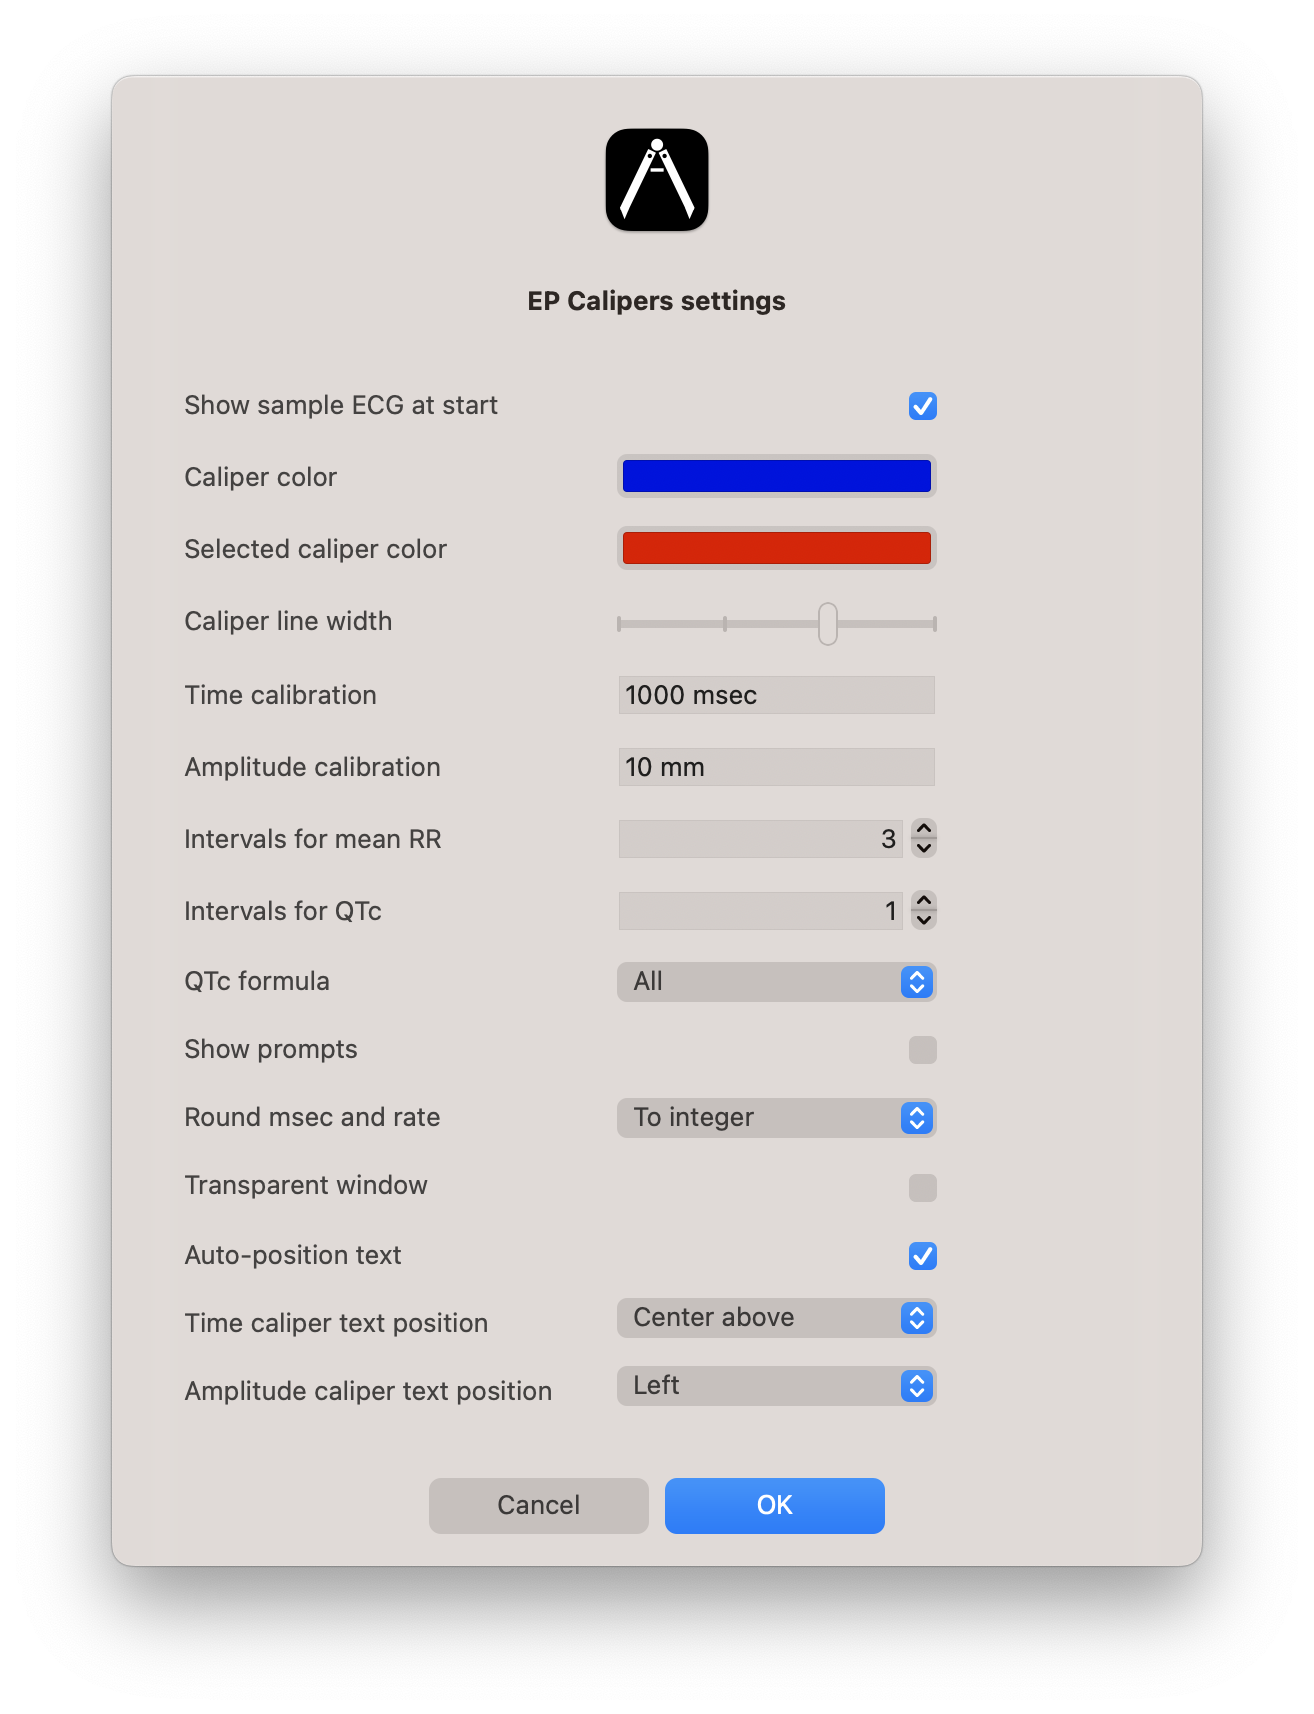
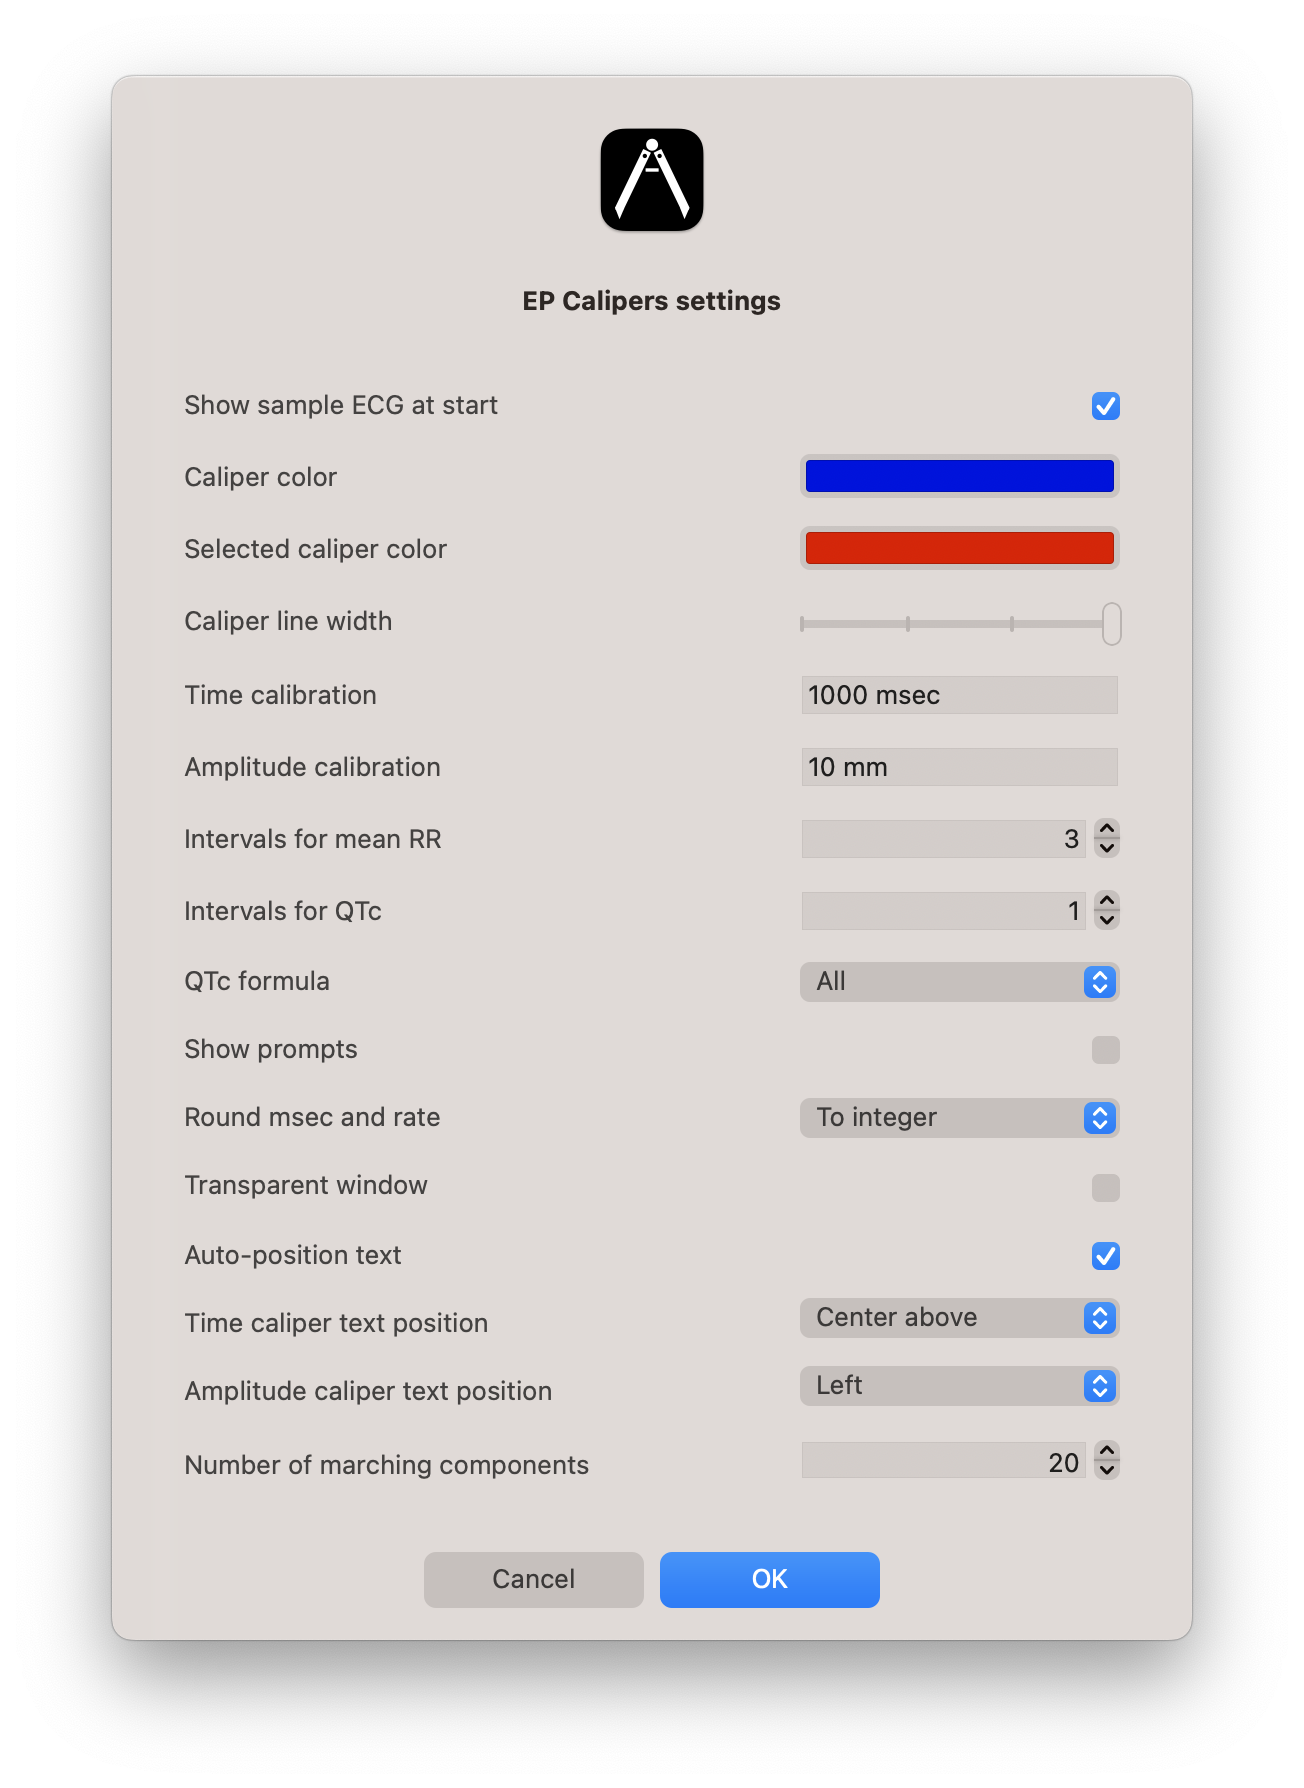
Update help for new marching components setting

diff --git a/EPCalipersHelp/Contents/Resources/fr.lproj/pgs/preferences.html b/EPCalipersHelp/Contents/Resources/fr.lproj/pgs/preferences.html
@@ -6,11 +6,11 @@
 <meta http-equiv="Content-Type" content="text/html;charset=utf-8" />
 <meta name="viewport" content="width=device-width, initial-scale=1" />
 <title>&lrm;</title>
-<meta name="generator" content="Org mode" />
 <meta name="author" content="David Mann" />
 <meta name="keywords" content="préférences" />
-<style type="text/css">
- <!--/*--><![CDATA[/*><!--*/
+<meta name="generator" content="Org Mode" />
+<style>
+  #content { max-width: 60em; margin: auto; }
   .title  { text-align: center;
              margin-bottom: .2em; }
   .subtitle { text-align: center;
@@ -31,8 +31,9 @@
   #postamble p, #preamble p { font-size: 90%; margin: .2em; }
   p.verse { margin-left: 3%; }
   pre {
-    border: 1px solid #ccc;
-    box-shadow: 3px 3px 3px #eee;
+    border: 1px solid #e6e6e6;
+    border-radius: 3px;
+    background-color: #f2f2f2;
     padding: 8pt;
     font-family: monospace;
     overflow: auto;
@@ -41,21 +42,21 @@
   pre.src {
     position: relative;
     overflow: auto;
-    padding-top: 1.2em;
   }
   pre.src:before {
     display: none;
     position: absolute;
-    background-color: white;
-    top: -10px;
-    right: 10px;
+    top: -8px;
+    right: 12px;
     padding: 3px;
-    border: 1px solid black;
+    color: #555;
+    background-color: #f2f2f299;
   }
   pre.src:hover:before { display: inline; margin-top: 14px;}
   /* Languages per Org manual */
   pre.src-asymptote:before { content: 'Asymptote'; }
   pre.src-awk:before { content: 'Awk'; }
+  pre.src-authinfo::before { content: 'Authinfo'; }
   pre.src-C:before { content: 'C'; }
   /* pre.src-C++ doesn't work in CSS */
   pre.src-clojure:before { content: 'Clojure'; }
@@ -190,56 +191,33 @@
     { font-size: 10px; font-weight: bold; white-space: nowrap; }
   .org-info-js_search-highlight
     { background-color: #ffff00; color: #000000; font-weight: bold; }
-  .org-svg { width: 90%; }
-  /*]]>*/-->
+  .org-svg { }
 </style>
 <style media="screen" type="text/css"> img {max-width: 100%; height: auto;} </style>
 <link rel="stylesheet" type="text/css" href="../../shrd/org.css"/>
 <style  type="text/css">:root { color-scheme: light dark; }</style>
 <meta name="robots" content="anchors" />
 <meta name="robots" content="keywords" />
-<script type="text/javascript">
-// @license magnet:?xt=urn:btih:e95b018ef3580986a04669f1b5879592219e2a7a&dn=public-domain.txt Public Domain
-<!--/*--><![CDATA[/*><!--*/
-     function CodeHighlightOn(elem, id)
-     {
-       var target = document.getElementById(id);
-       if(null != target) {
-         elem.classList.add("code-highlighted");
-         target.classList.add("code-highlighted");
-       }
-     }
-     function CodeHighlightOff(elem, id)
-     {
-       var target = document.getElementById(id);
-       if(null != target) {
-         elem.classList.remove("code-highlighted");
-         target.classList.remove("code-highlighted");
-       }
-     }
-    /*]]>*///-->
-// @license-end
-</script>
 </head>
 <body>
-<div id="content">
-<div id="outline-container-orgeaabc18" class="outline-2">
-<h2 id="orgeaabc18"><img src="../../shrd/64.png" alt="64.png" /> Préférences</h2>
-<div class="outline-text-2" id="text-orgeaabc18">
+<div id="content" class="content">
+<div id="outline-container-orgc9ecb62" class="outline-2">
+<h2 id="orgc9ecb62"><img src="../../shrd/64.png" alt="64.png" /> Préférences</h2>
+<div class="outline-text-2" id="text-orgc9ecb62">
 <a name="EP Diagram preferences"></a>
 <p>
 Les préférences d’application peuvent être choisies en utilisant la commande de menu <b>Compas EP | Préférences</b>.  Vous pouvez changer les couleurs de compas, la larguer de ligne de compas, la position du texte de compas, l’intervalle d”étalonnage par défaut et le nombre d’intervalles pour calculer les intervalles moyens.  Par exemple, si vous utilisez toujours un intervalle RR pour calculer le QTc, mettre le <i>Nombre d’intervalles RR pour QTc</i> à un intervalle.  Noter que vous pouvez changer ces nombres quand vous prenez les mesures.  Vous pouvez aussi utilisez le dialog de préférences pour activer la fênetre transparente.
 </p>
 
-<div id="org9ad68cd" class="figure">
+<div id="org9e9c089" class="figure">
 <p><img src="../gfx/preferences.png" alt="preferences.png" />
 </p>
 <p><span class="figure-number">Figure 1: </span>Préférences</p>
 </div>
 </div>
-<div id="outline-container-org3b43dfe" class="outline-3">
-<h3 id="org3b43dfe">Préférences expliquées</h3>
-<div class="outline-text-3" id="text-org3b43dfe">
+<div id="outline-container-org1b3547d" class="outline-3">
+<h3 id="org1b3547d">Préférences expliquées</h3>
+<div class="outline-text-3" id="text-org1b3547d">
 <ul class="org-ul">
 <li>Afficher l'échantillon d'ECG au démarrage: Choisir d'afficher un échantillon d'ECG normal au démarrage.</li>
 <li>Couleur de compas: C’est la couleur d’un compas ajouté qui est non choisi.  Cette couleur peut étre plus tard changée par un clic-droit sur le compas et puis en choisissant <b>Couleur de compas</b>.</li>
@@ -256,6 +234,7 @@ Les préférences d’application peuvent être choisies en utilisant la command
 <li>Auto-positionner texte: Positionner automatiquement le texte de chaque compas par rapport au compas.  Par exemple, si la position du texte est à droite et le compas est trop proche au côté droit de la fenêtre, elle changera à gauche.</li>
 <li>Position du texte pour compas de temps: Positionner le texte pour les compas de temps au-dessus du centre, au-dessous du centre, à gauche ou à droite du compas.</li>
 <li>Position du texte pour compas d'amplitude: Positionner le texte pour les compas d'amplitude au-dessus, au-dessous, à gauche ou à droite du compas.</li>
+<li>Nombre de composants marchants: Adjuster le nombre de composants marchants de 1 à 20.</li>
 </ul>
 </div>
 </div>

diff --git a/EPCalipersHelp/Contents/Resources/English.lproj/pgs/preferences.html b/EPCalipersHelp/Contents/Resources/English.lproj/pgs/preferences.html
@@ -201,23 +201,23 @@
 </head>
 <body>
 <div id="content" class="content">
-<div id="outline-container-orgbb5cbd7" class="outline-2">
-<h2 id="orgbb5cbd7"><img src="../../shrd/64.png" alt="64.png" /> Settings</h2>
-<div class="outline-text-2" id="text-orgbb5cbd7">
+<div id="outline-container-orge6a548e" class="outline-2">
+<h2 id="orge6a548e"><img src="../../shrd/64.png" alt="64.png" /> Settings</h2>
+<div class="outline-text-2" id="text-orge6a548e">
 <a name="EP Diagram settings"></a>
 <p>
 Settings can be selected using the <b>EP Calipers | Settings</b> menu item.  You can change caliper colors, line width of the calipers, positioning of the text labels of calipers, default calibration intervals and number of intervals used to calculate mean intervals.  For example, if you usually use just 1 RR interval to calculate the QTc, set the number of mean RR intervals for the QTc measurement to 1 interval.  Remember though you can override any of these values when you actually do the measurements.  You can also use the dialog to change to a transparent window.
 </p>
 
-<div id="org53bfb3e" class="figure">
+<div id="org7056b7e" class="figure">
 <p><img src="../gfx/settings.en.png" alt="settings.en.png" />
 </p>
 <p><span class="figure-number">Figure 1: </span>Settings</p>
 </div>
 </div>
-<div id="outline-container-orga2bd8c9" class="outline-3">
-<h3 id="orga2bd8c9">Settings explained</h3>
-<div class="outline-text-3" id="text-orga2bd8c9">
+<div id="outline-container-orgda20b87" class="outline-3">
+<h3 id="orgda20b87">Settings explained</h3>
+<div class="outline-text-3" id="text-orgda20b87">
 <ul class="org-ul">
 <li>Show sample ECG at start: Select to show a sample normal ECG at startup.</li>
 <li>Caliper color: This is the color of unselected newly added calipers.  Note that this color can be overwritten by right-clicking on a caliper and selecting <b>Caliper Color</b>.</li>
@@ -234,6 +234,7 @@ Settings can be selected using the <b>EP Calipers | Settings</b> menu item.  You
 <li>Auto-position text: Caliper text will avoid being obscured by the window edges or the caliper itself by shifting position.  For example, if a caliper text label is to the right of the caliper and the caliper gets too close to the right side of the window, it will shift over to the left of the caliper.</li>
 <li>Time caliper text position: Adjust the text label of time calipers to be above or below the center of the crossbar, or on the left or right side of the caliper.</li>
 <li>Amplitude caliper text position: Adjust the text label of amplitude calipers on the top or bottom of the caliper, or left or right of the crossbar.</li>
+<li>Number of marching components: Adjust the number of marching caliper components from 1 to a maximum of 20.</li>
 </ul>
 </div>
 </div>
